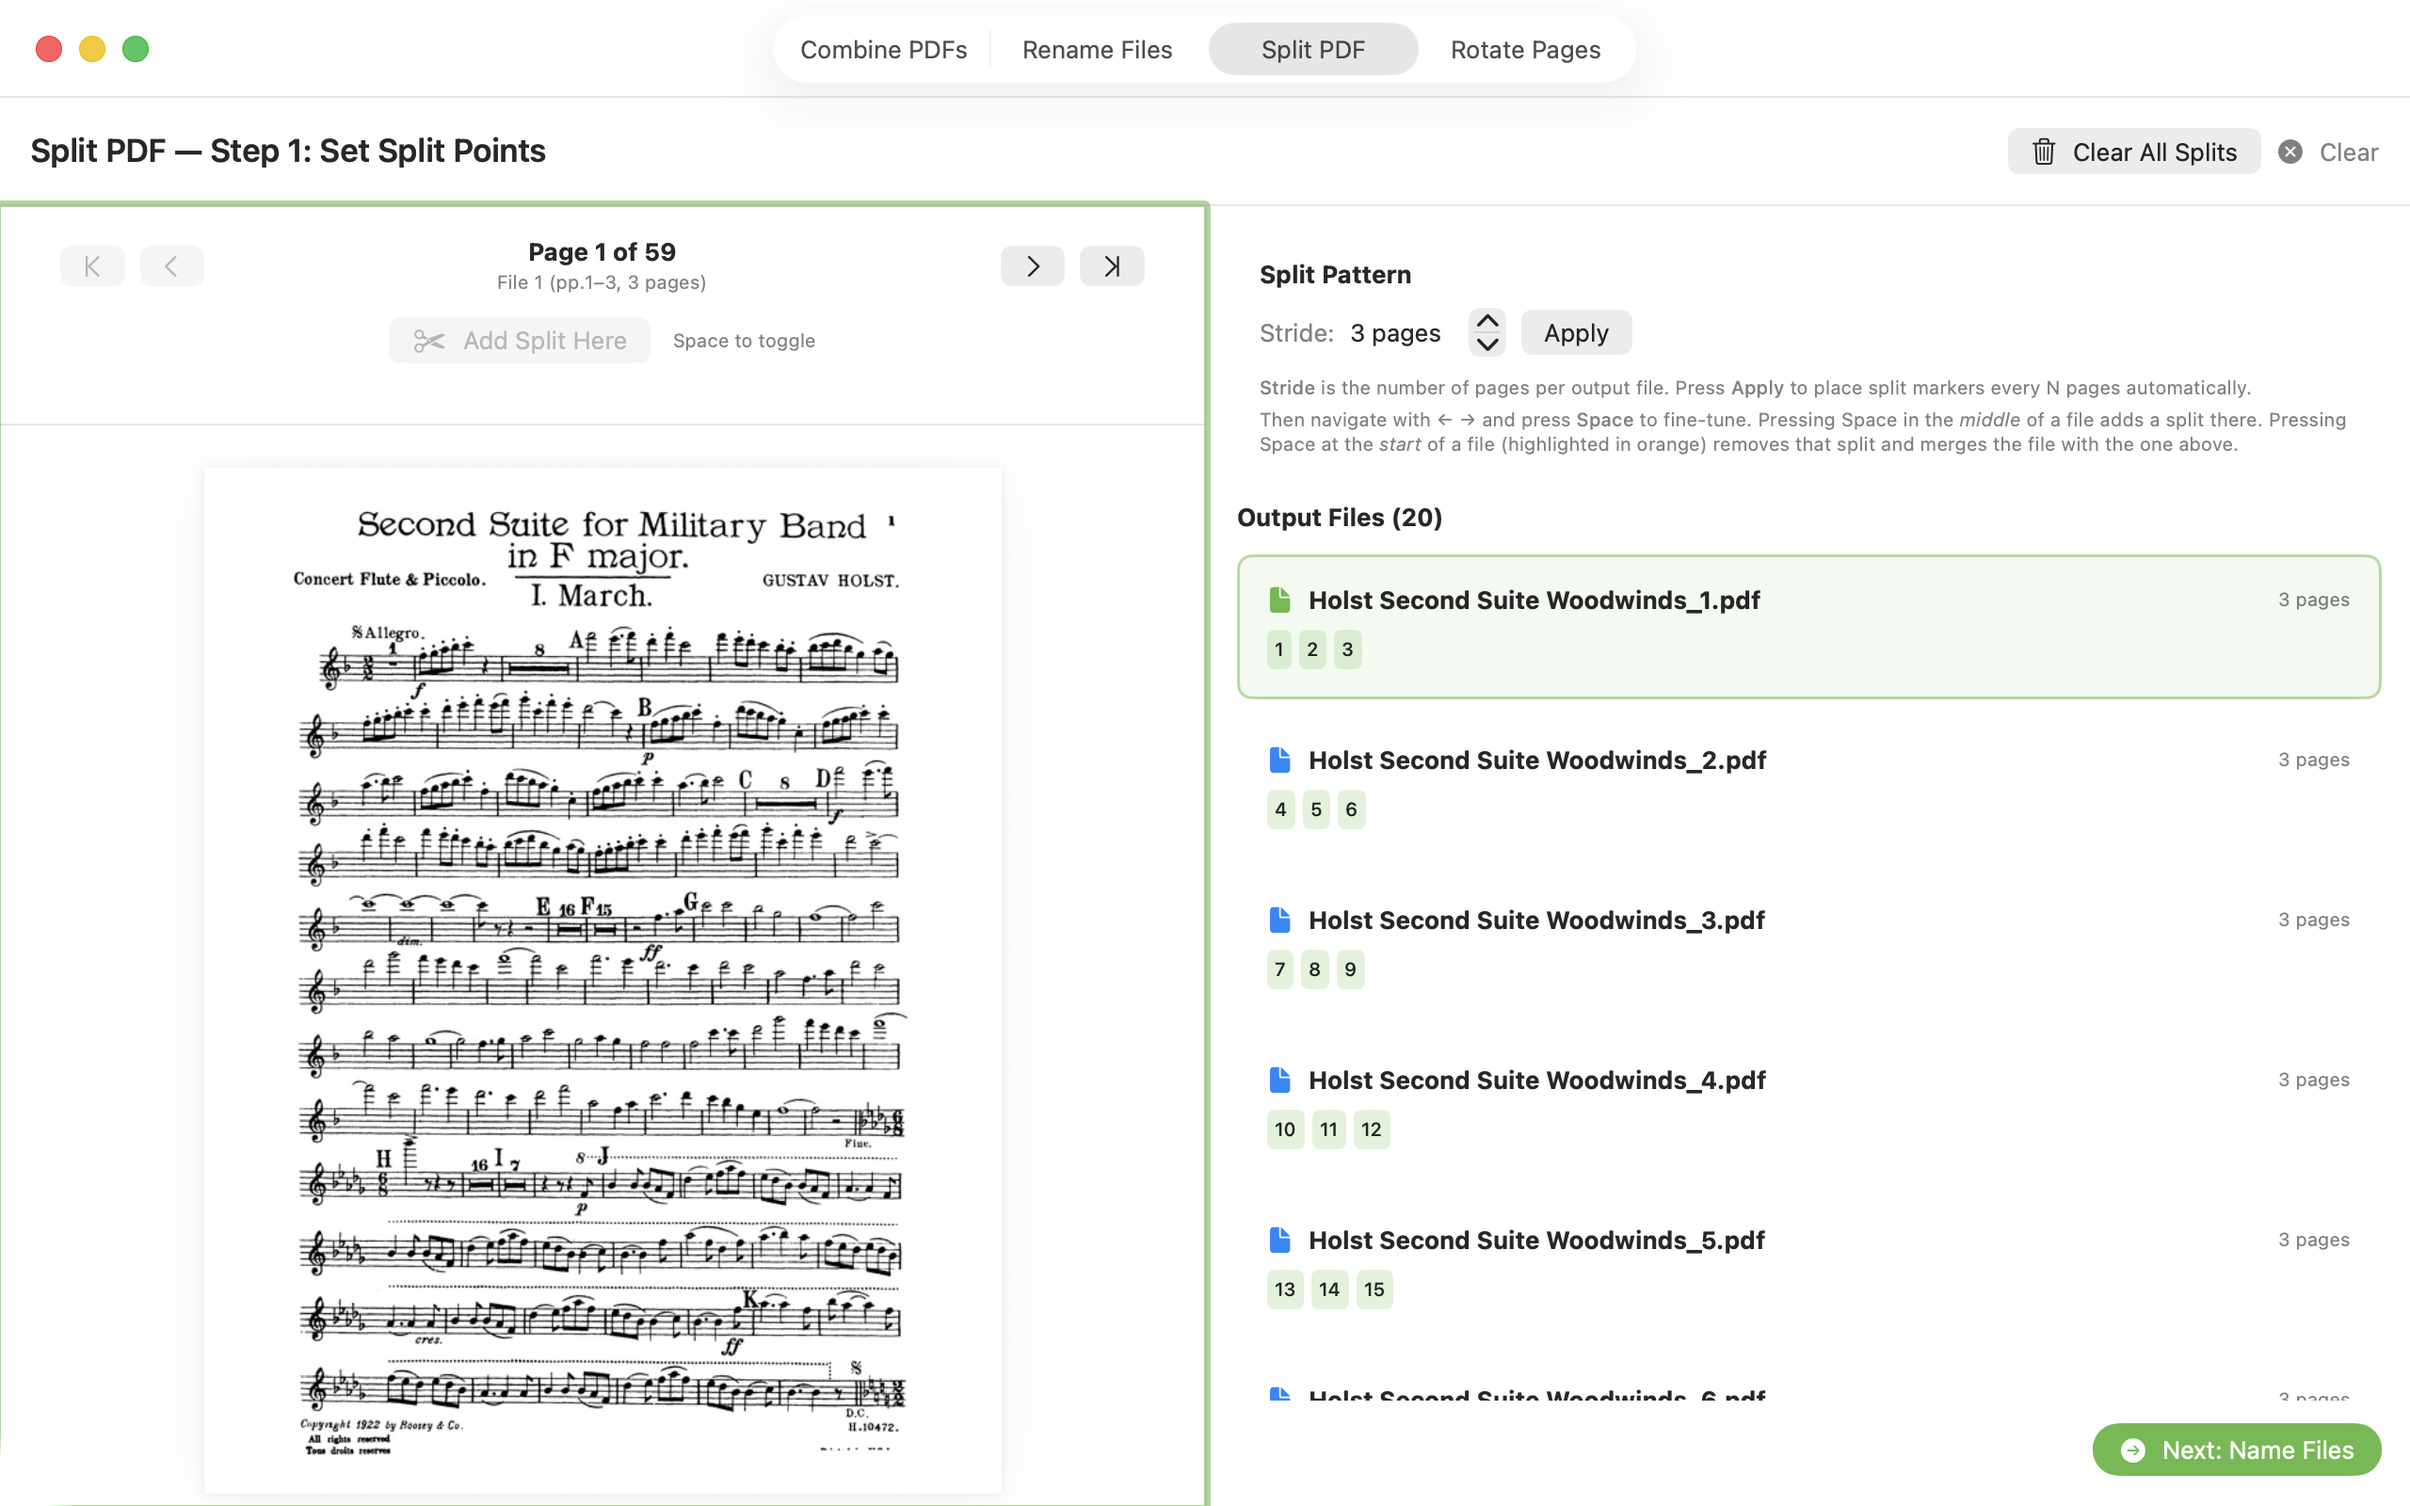
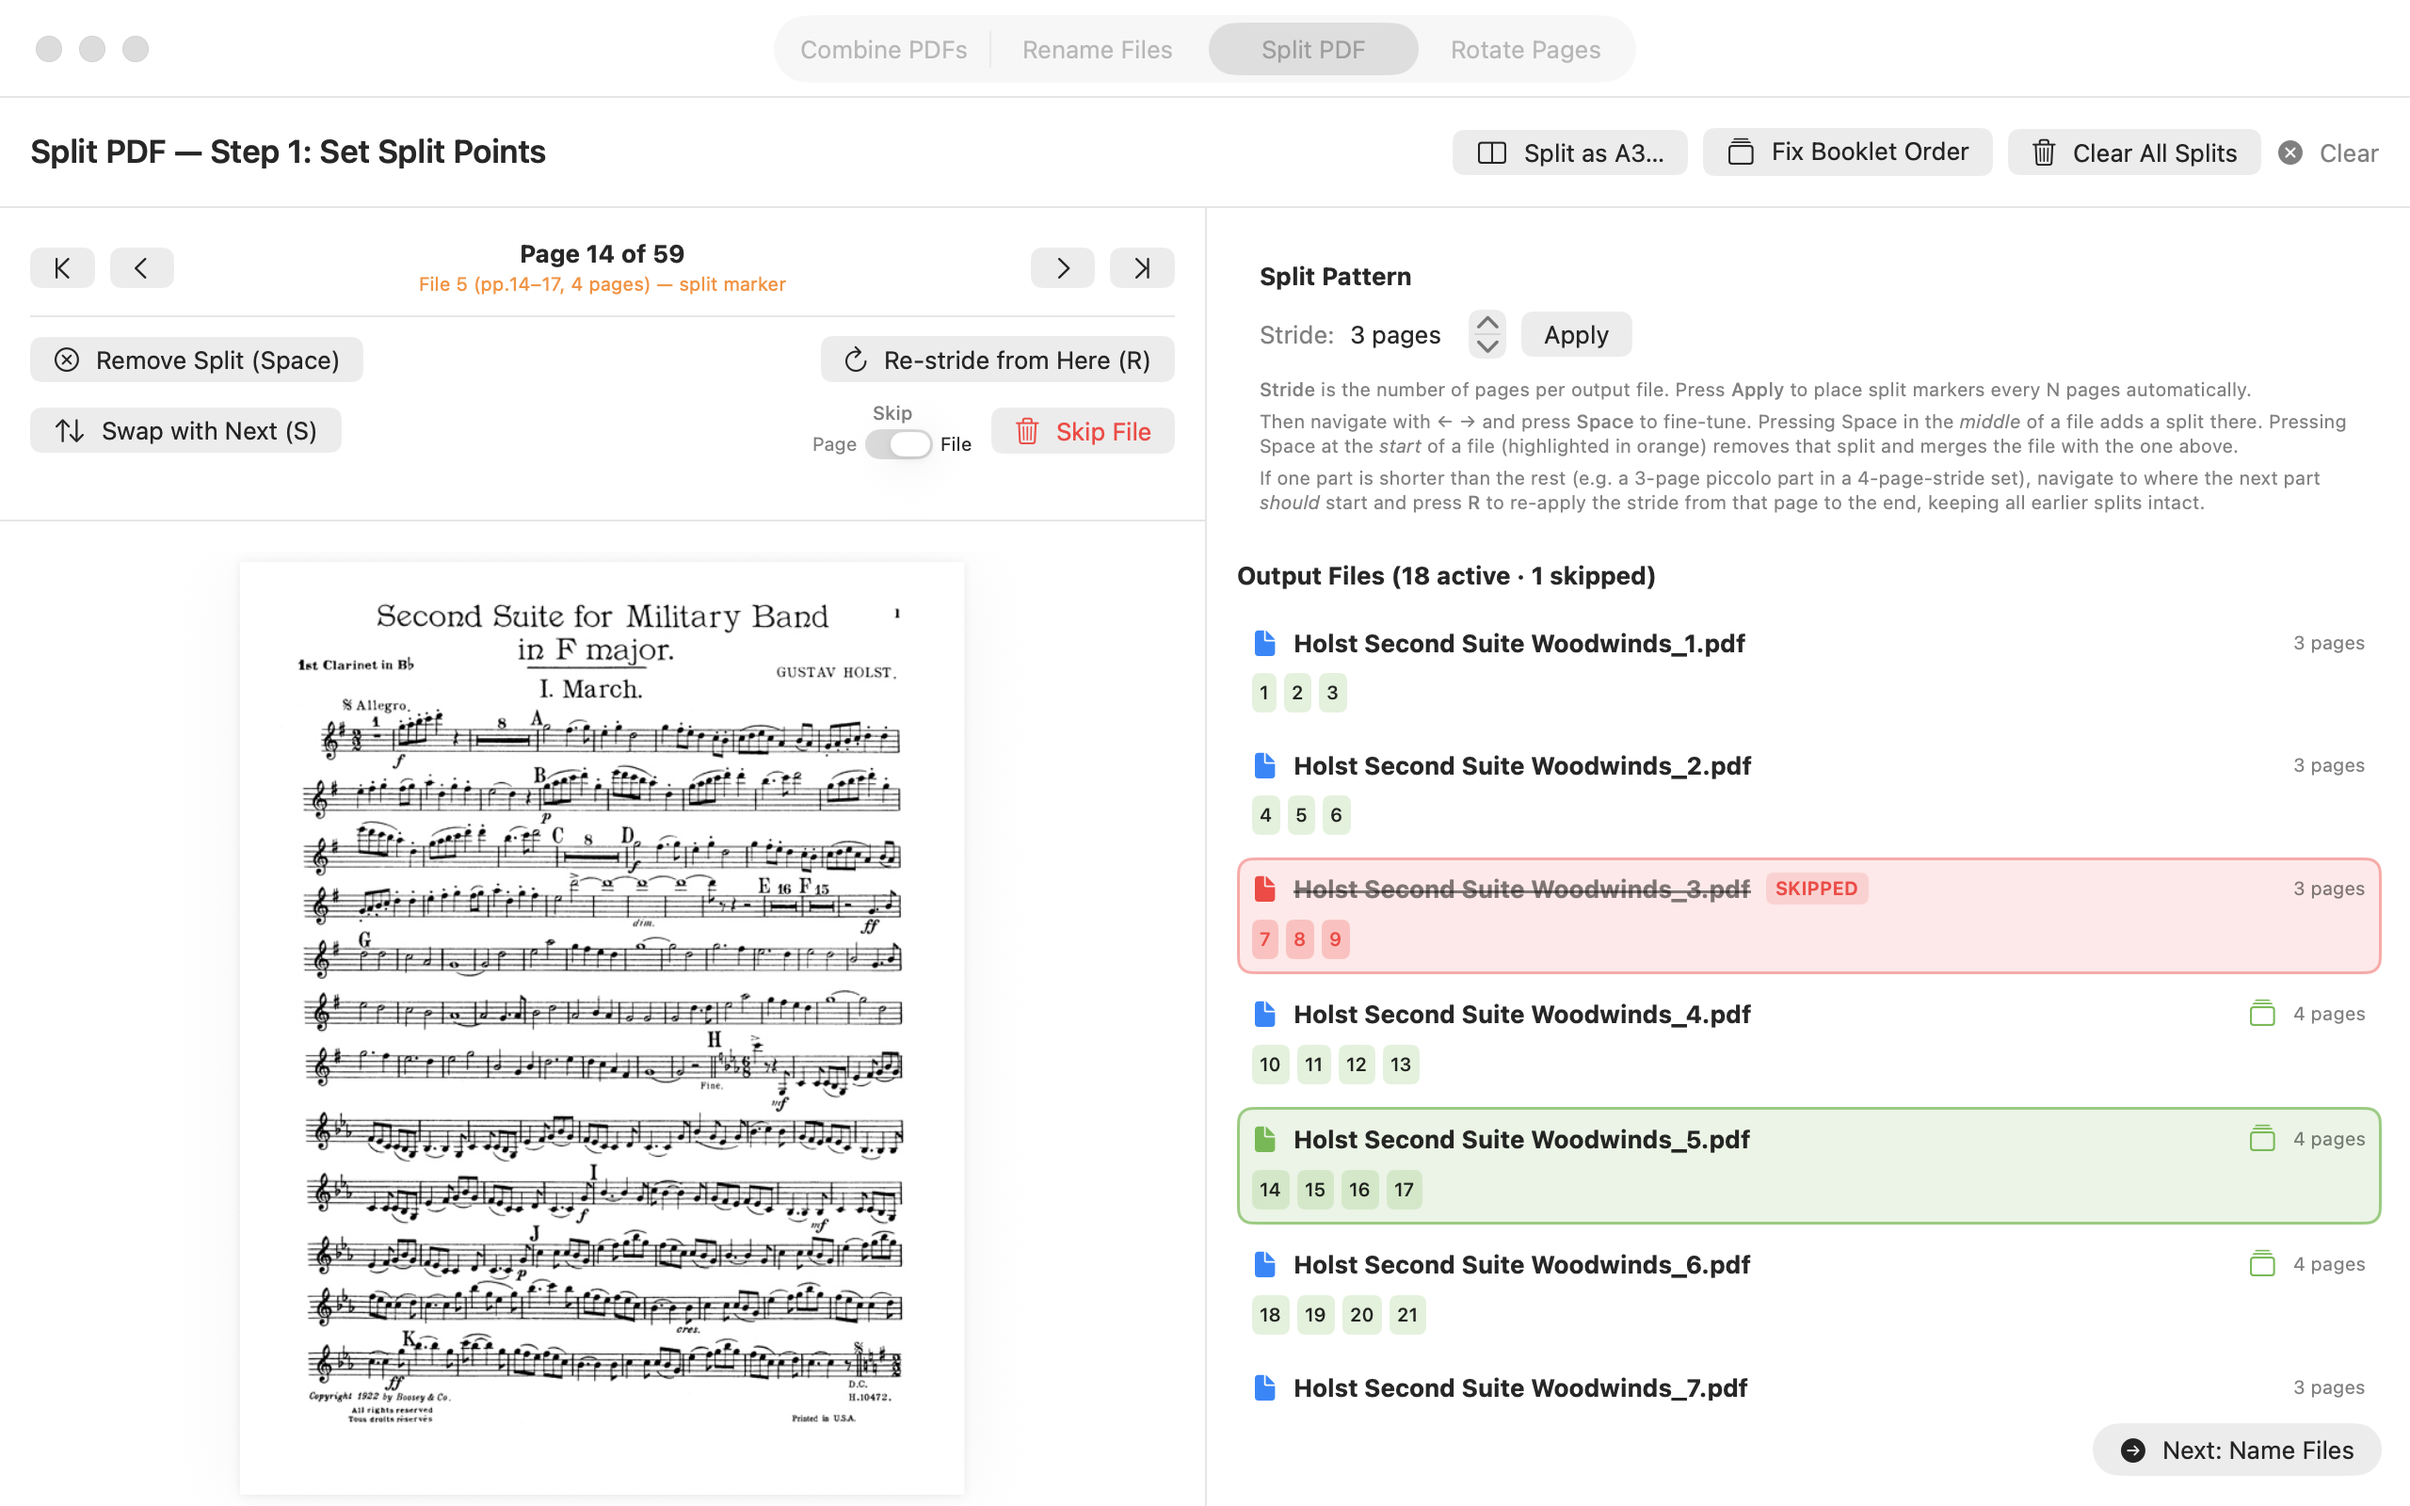
Welcome tour: hug content height, expand Combine page, add A3/booklet to Split
- Card now sizes to each page's content (up to a cap, then scrolls) so the short
  welcome page is no longer stretched to full window height.
- Combine page: mention image drag-in, Add Blank Page, copies, and the table of contents.
- Split page: add a short A3-split and Fix Booklet Order explanation + updated tips.
- Refresh the splitter tour screenshot to the current UI.

diff --git a/ScoreSort/ScanReorienterApp_complete.swift b/ScoreSort/ScanReorienterApp_complete.swift
@@ -1815,9 +1815,9 @@ struct WelcomeTourPage {
             title: "Combine PDFs",
             useCase: "You have separate PDF files — one per instrument part — and want to merge them into a single document, ready to print all in one go.",
             bodyParagraphs: [
-                "Drag your files (or a whole folder) into the app, then reorder files with **⌘↑ / ⌘↓**. ",
+                "Drag your files (or a whole folder) into the app, then reorder with **⌘↑ / ⌘↓** or by dragging. You can also drag in **images** (JPEG, PNG, TIFF…) — each becomes an A4 page — and insert a blank sheet anywhere with **Add Blank Page**. Set how many copies of each part you need with the stepper beside it.",
                 "You can save your usual instrument allocations as **Ensemble Presets** in Preferences. These can be viewed in the Presets sidebar to help you remember the normal number of parts required. Use **Apply to Files** to attempt to automatically match your preset allocations to your filenames.",
-                "When ready, click **Create PDF** to save the combined file, or **Open in Preview** to print directly without saving a new document.",
+                "When ready, click **Create PDF** to save the combined file, or **Open in Preview** to print directly without saving. The combined PDF includes a clickable **table of contents** (one bookmark per file), shown in Preview's sidebar.",
                 "**Advanced: Collate Sets:** Select a group of parts and press **C** to interleave their pages in the output document. Ideal where you have a number of parts required for multiple players, for example in a percussion section — each player's copies will print together in a ready-to-distribute stack."
             ],
             tipText: "⌫ removes selected files · ⌘Z undoes any change · ⌘↑ / ⌘↓ reorders",
@@ -1865,9 +1865,10 @@ struct WelcomeTourPage {
             useCase: "You have one large PDF — e.g. a complete scan of all parts bound together — and need to split it into separate instrument files.",
             bodyParagraphs: [
                 "Drop the PDF and use **← →** to move through pages. Press **Space** to toggle a split marker, and **↑ ↓** to jump to the first page of each output file. Equally-spaced markers can be placed automatically using the **stride** control. Once you have entered your split markers, you can also choose to skip certain sections of the PDF in the output using your **Delete** key.",
-                "In Step 2, name each output file — the same flow as Rename Files. Toggle **Prefix score order** to add score-order numbers automatically in Step 3."
+                "In Step 2, name each output file — the same flow as Rename Files. Toggle **Prefix score order** to add score-order numbers automatically in Step 3.",
+                "**A3 & booklet scans:** Drop an A3 scan (two A4 pages side-by-side) and ScoreSort offers to split every sheet down the middle into separate pages. If a booklet was scanned out of reading order, put each booklet in its own split, then use **Fix Booklet Order** to restore the page order automatically — or **Swap with Next (S)** to nudge individual pages."
             ],
-            tipText: "⌘← / ⌘→ jumps to the first or last page · Space toggles a split marker · Delete skips the selected file",
+            tipText: "Space toggles a split marker · S swaps a page with the next · Delete skips a page or file · ⌘← / ⌘→ jumps to first / last page",
             imageName: "tour-splitter"
         ),
 
@@ -1890,18 +1891,30 @@ struct WelcomeTourPage {
 
 // MARK: - Welcome Tour View
 
+/// Reports the natural height of the current tour page so the card can hug its content.
+private struct TourContentHeightKey: PreferenceKey {
+    static var defaultValue: CGFloat = 0
+    static func reduce(value: inout CGFloat, nextValue: () -> CGFloat) {
+        value = max(value, nextValue())
+    }
+}
+
 struct WelcomeTourView: View {
     var onDismiss: () -> Void
 
     @State private var currentPage = 0
     @State private var goingForward = true
+    @State private var contentHeight: CGFloat = 0
 
     private let pages = WelcomeTourPage.all
+    /// The card hugs each page's content up to this height, then scrolls — so a short
+    /// page (like the welcome page) isn't stretched to the full window height.
+    private let maxContentHeight: CGFloat = 600
 
     var body: some View {
         VStack(spacing: 0) {
 
-            // ── Scrollable content ────────────────────────────────────────
+            // ── Content: card hugs the page's height, scrolling past the cap ──
             ScrollView(.vertical, showsIndicators: false) {
                 TourPageContentView(page: pages[currentPage])
                     .id(currentPage)
@@ -1911,7 +1924,14 @@ struct WelcomeTourView: View {
                         removal:   .move(edge: goingForward ? .leading : .trailing)
                                     .combined(with: .opacity)
                     ))
+                    .background(GeometryReader { proxy in
+                        Color.clear.preference(key: TourContentHeightKey.self,
+                                               value: proxy.size.height)
+                    })
             }
+            .frame(height: min(max(contentHeight, 1), maxContentHeight))
+            .onPreferenceChange(TourContentHeightKey.self) { contentHeight = $0 }
+            .animation(.easeInOut(duration: 0.25), value: contentHeight)
 
             Divider()
 
